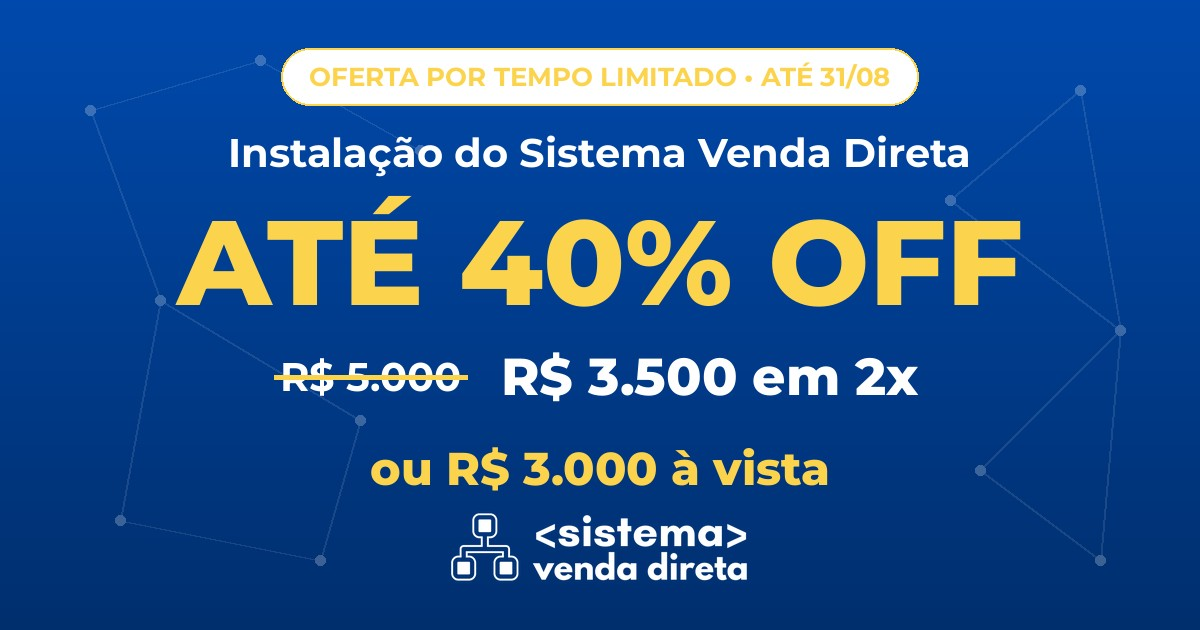
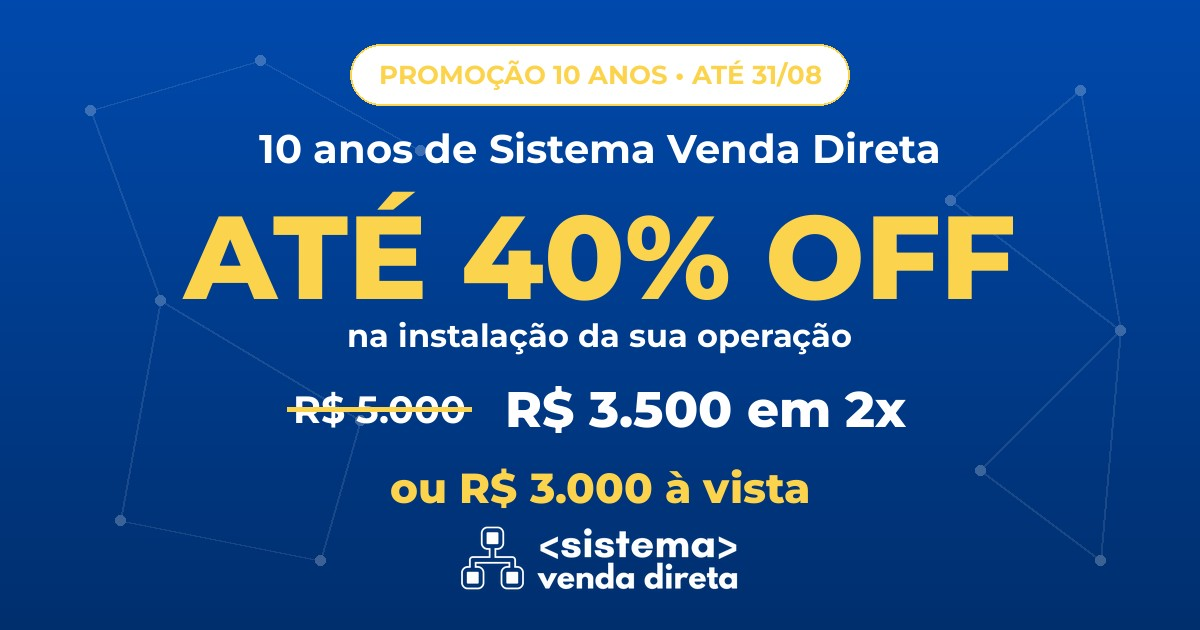
feat(svd): promocao rebatizada — Promocao 10 Anos (empresa aberta em 02/12/2015)
- badge "Celebrando 10 anos" (sem chamar agosto de mes de aniversario), barra
  sticky, headline do modal, CTA final e rodape juridico com o novo nome
- vagas 8 -> 10 (coesao com o tema)
- card de stats: "10 anos de SVD no ar, time que desenvolve sistemas desde 2002"
- historia oficial consistente: home deixa de dizer "desde 2002" como empresa;
  rodapes trocam "25 anos de experiencia" por "Desenvolvendo sistemas desde 2002"
  (frase que nunca envelhece)
- banner OG regenerado com selo "PROMOCAO 10 ANOS" (?v=3 pra furar cache)
- mensagens de WhatsApp e doc da campanha (nome, RSA e destaque) atualizados

Claude-Session: https://claude.ai/code/session_01LgtpkkrbT1UQwwthM2fiJt

Changed region(s): [[0.1233, 0.3016, 0.8633, 0.9349], [0.2158, 0.0603, 0.7708, 0.181], [0.185, 0.2111, 0.8325, 0.2714]]

diff --git a/sistemavendadireta/oferta/index.php b/sistemavendadireta/oferta/index.php
@@ -21,9 +21,9 @@ $promoInstallFrom = 5000;          // valor cheio da instalacao (R$)
 $promoInstallTo = 3500;            // valor promocional em 2x (R$)
 $promoInstallCash = 3000;          // valor promocional a vista (R$)
 $promoDeadline = '2026-08-31';     // ultimo dia da promocao (America/Sao_Paulo)
-$promoSlots = 8;                   // vagas de implantacao no periodo
+$promoSlots = 10;                  // vagas de implantacao no periodo (tema: 10 anos)
 $whatsappPhone = '5511994566726';
-$whatsappMessage = 'Ola! Vim pela campanha de instalacao com desconto do Sistema Venda Direta. Quero garantir minha vaga.';
+$whatsappMessage = 'Ola! Vim pela Promocao 10 Anos do Sistema Venda Direta. Quero garantir minha vaga.';
 
 $monthlyTiers = [
     ['revenue' => 'até R$ 50 mil', 'price' => 'R$ 500'],
@@ -51,7 +51,7 @@ $whatsappHref = 'https://wa.me/' . $whatsappPhone . '?text=' . rawurlencode($wha
 
 $seoBase = 'https://www.sistemavendadireta.com.br';
 $seoUrl = $seoBase . '/oferta/';
-$seoTitle = 'Instalação em oferta — até 40% OFF | Sistema Venda Direta';
+$seoTitle = 'Promoção 10 Anos: até 40% OFF na instalação | Sistema Venda Direta';
 $seoDescription = 'Plataforma completa de MMN: escritório, loja, rede e financeiro. '
     . 'Instalação R$ 3.500 em 2x ou R$ 3.000 à vista, com implantação assistida por IA.';
 ?>
@@ -72,16 +72,16 @@ $seoDescription = 'Plataforma completa de MMN: escritório, loja, rede e finance
 
   <meta property="og:locale" content="pt_BR" />
   <meta property="og:type" content="website" />
-  <meta property="og:title" content="Instalação em oferta — Sistema Venda Direta" />
+  <meta property="og:title" content="Promoção 10 Anos — Sistema Venda Direta" />
   <meta property="og:description" content="<?= htmlspecialchars($seoDescription, ENT_QUOTES, 'UTF-8') ?>" />
   <meta property="og:url" content="<?= htmlspecialchars($seoUrl, ENT_QUOTES, 'UTF-8') ?>" />
   <meta property="og:site_name" content="Sistema Venda Direta" />
-  <meta property="og:image" content="<?= htmlspecialchars($seoBase . '/imagens/og-oferta.jpg?v=2', ENT_QUOTES, 'UTF-8') ?>" />
+  <meta property="og:image" content="<?= htmlspecialchars($seoBase . '/imagens/og-oferta.jpg?v=3', ENT_QUOTES, 'UTF-8') ?>" />
   <meta property="og:image:width" content="1200" />
   <meta property="og:image:height" content="630" />
   <meta property="og:image:alt" content="Instalação do Sistema Venda Direta com até 40% OFF — R$ 3.500 em 2x ou R$ 3.000 à vista até 31/08" />
   <meta name="twitter:card" content="summary_large_image" />
-  <meta name="twitter:image" content="<?= htmlspecialchars($seoBase . '/imagens/og-oferta.jpg?v=2', ENT_QUOTES, 'UTF-8') ?>" />
+  <meta name="twitter:image" content="<?= htmlspecialchars($seoBase . '/imagens/og-oferta.jpg?v=3', ENT_QUOTES, 'UTF-8') ?>" />
 
   <link rel="preconnect" href="https://fonts.googleapis.com" />
   <link rel="preconnect" href="https://fonts.gstatic.com" crossorigin />
@@ -98,7 +98,7 @@ $seoDescription = 'Plataforma completa de MMN: escritório, loja, rede e finance
     <div class="sticky top-0 z-50 border-b border-amber-300/40 bg-amber-400 text-brand">
       <div class="mx-auto flex max-w-[1140px] flex-nowrap items-center justify-between gap-3 px-4 py-2 sm:px-6">
         <p class="min-w-0 text-xs font-bold uppercase leading-tight tracking-wide sm:text-sm">
-          Até <?= (int) $discountCashPct ?>% OFF na instalação<span class="hidden md:inline"> · encerra <?= htmlspecialchars($deadlineLabel, ENT_QUOTES, 'UTF-8') ?></span>
+          Promoção 10 Anos: até <?= (int) $discountCashPct ?>% OFF<span class="hidden md:inline"> na instalação · encerra <?= htmlspecialchars($deadlineLabel, ENT_QUOTES, 'UTF-8') ?></span>
           <span class="ml-1 whitespace-nowrap rounded-full bg-brand px-2 py-0.5 text-[10px] font-bold text-white sm:text-xs"><?= (int) $daysLeft ?> dia<?= $daysLeft === 1 ? '' : 's' ?></span>
         </p>
         <a href="#garantir" class="shrink-0 whitespace-nowrap rounded-full bg-brand px-3 py-1.5 text-[11px] font-bold uppercase tracking-wide text-white hover:bg-brand-dark sm:px-4 sm:text-xs">
@@ -125,7 +125,7 @@ $seoDescription = 'Plataforma completa de MMN: escritório, loja, rede e finance
     <section class="py-10 lg:py-14">
       <div>
         <p class="inline-flex rounded-full border border-amber-300/50 bg-amber-400/15 px-3 py-1 text-xs font-bold uppercase tracking-[0.18em] text-amber-200">
-          Campanha por tempo limitado
+          Celebrando 10 anos
         </p>
         <h1 class="mt-4 font-[var(--font-heading)] text-3xl font-bold leading-[1.1] sm:text-4xl lg:text-[46px]">
           Sua operação de venda direta no ar com <span class="text-amber-300">até <?= (int) $discountCashPct ?>% de desconto</span> na instalação
@@ -188,8 +188,8 @@ $seoDescription = 'Plataforma completa de MMN: escritório, loja, rede e finance
           <p class="mt-1 text-sm text-white/85">foi o prazo da última implantação internacional: loja, escritório e admin no ar em julho de 2026.</p>
         </div>
         <div class="rounded-2xl border border-white/20 bg-white/5 p-5">
-          <p class="font-[var(--font-heading)] text-3xl font-bold text-amber-300">25 anos</p>
-          <p class="mt-1 text-sm text-white/85">de experiência do time em sistemas de vendas, financeiro e fiscal.</p>
+          <p class="font-[var(--font-heading)] text-3xl font-bold text-amber-300">10 anos</p>
+          <p class="mt-1 text-sm text-white/85">de Sistema Venda Direta no ar — com um time que desenvolve sistemas de vendas, financeiro e fiscal desde 2002.</p>
         </div>
         <div class="rounded-2xl border border-white/20 bg-white/5 p-5">
           <p class="font-[var(--font-heading)] text-3xl font-bold text-amber-300">5 países</p>
@@ -511,7 +511,7 @@ $seoDescription = 'Plataforma completa de MMN: escritório, loja, rede e finance
               method="post"
               class="space-y-4"
               data-whatsapp-phone="<?= htmlspecialchars($whatsappPhone, ENT_QUOTES, 'UTF-8') ?>"
-              data-whatsapp-message-template="Ola, vim pela campanha de instalacao com desconto. Meu nome e {nome} e meu WhatsApp e {whatsapp}."
+              data-whatsapp-message-template="Ola, vim pela Promocao 10 Anos. Meu nome e {nome} e meu WhatsApp e {whatsapp}."
             >
               <input type="hidden" name="redirect" value="/oferta/" />
               <input type="hidden" name="origem" value="lp-oferta-instalacao" />
@@ -577,7 +577,7 @@ $seoDescription = 'Plataforma completa de MMN: escritório, loja, rede e finance
 
     <section class="py-12 text-center">
       <h2 class="font-[var(--font-heading)] text-2xl font-bold sm:text-3xl">
-        <?= htmlspecialchars($moneyFrom, ENT_QUOTES, 'UTF-8') ?> viram <?= htmlspecialchars($moneyCash, ENT_QUOTES, 'UTF-8') ?> à vista<?= $promoActive ? ' até ' . htmlspecialchars($deadlineLabel, ENT_QUOTES, 'UTF-8') : '' ?>
+        Promoção 10 Anos: <?= htmlspecialchars($moneyFrom, ENT_QUOTES, 'UTF-8') ?> viram <?= htmlspecialchars($moneyCash, ENT_QUOTES, 'UTF-8') ?> à vista<?= $promoActive ? ' até ' . htmlspecialchars($deadlineLabel, ENT_QUOTES, 'UTF-8') : '' ?>
       </h2>
       <p class="mx-auto mt-3 max-w-2xl text-base leading-relaxed text-white/90">
         Depois disso, a instalação volta ao valor cheio. Se a sua operação vai começar este ano, começar agora sai bem mais barato.
@@ -598,7 +598,7 @@ $seoDescription = 'Plataforma completa de MMN: escritório, loja, rede e finance
       </div>
       <p class="mt-6 text-xs text-white/60">
         © Sistema Venda Direta — Todos os direitos reservados.
-        Condição promocional de instalação (<?= htmlspecialchars($moneyTo, ENT_QUOTES, 'UTF-8') ?> em duas parcelas ou <?= htmlspecialchars($moneyCash, ENT_QUOTES, 'UTF-8') ?> à vista) válida para contratos fechados até <?= htmlspecialchars($deadlineLabel, ENT_QUOTES, 'UTF-8') ?>,
+        Promoção 10 Anos — condição promocional de instalação (<?= htmlspecialchars($moneyTo, ENT_QUOTES, 'UTF-8') ?> em duas parcelas ou <?= htmlspecialchars($moneyCash, ENT_QUOTES, 'UTF-8') ?> à vista) válida para contratos fechados até <?= htmlspecialchars($deadlineLabel, ENT_QUOTES, 'UTF-8') ?>,
         limitada a <?= (int) $promoSlots ?> implantações no período. Não cumulativa com outras condições comerciais.
       </p>
     </div>

diff --git a/sistemavendadireta/oferta/suplementos/index.php b/sistemavendadireta/oferta/suplementos/index.php
@@ -21,9 +21,9 @@ $promoInstallFrom = 5000;          // valor cheio da instalacao (R$)
 $promoInstallTo = 3500;            // valor promocional em 2x (R$)
 $promoInstallCash = 3000;          // valor promocional a vista (R$)
 $promoDeadline = '2026-08-31';     // ultimo dia da promocao (America/Sao_Paulo)
-$promoSlots = 8;                   // vagas de implantacao no periodo
+$promoSlots = 10;                  // vagas de implantacao no periodo (tema: 10 anos)
 $whatsappPhone = '5511994566726';
-$whatsappMessage = 'Ola! Tenho uma operacao de suplementos e vim pela campanha de instalacao com desconto. Quero ver o sistema.';
+$whatsappMessage = 'Ola! Tenho uma operacao de suplementos e vim pela Promocao 10 Anos. Quero ver o sistema.';
 
 $monthlyTiers = [
     ['revenue' => 'até R$ 50 mil', 'price' => 'R$ 500'],
@@ -75,12 +75,12 @@ $seoDescription = 'Sistema para distribuidora de suplementos com consultores: es
   <meta property="og:description" content="<?= htmlspecialchars($seoDescription, ENT_QUOTES, 'UTF-8') ?>" />
   <meta property="og:url" content="<?= htmlspecialchars($seoUrl, ENT_QUOTES, 'UTF-8') ?>" />
   <meta property="og:site_name" content="Sistema Venda Direta" />
-  <meta property="og:image" content="<?= htmlspecialchars($seoBase . '/imagens/og-oferta.jpg?v=2', ENT_QUOTES, 'UTF-8') ?>" />
+  <meta property="og:image" content="<?= htmlspecialchars($seoBase . '/imagens/og-oferta.jpg?v=3', ENT_QUOTES, 'UTF-8') ?>" />
   <meta property="og:image:width" content="1200" />
   <meta property="og:image:height" content="630" />
   <meta property="og:image:alt" content="Instalação do Sistema Venda Direta com até 40% OFF — R$ 3.500 em 2x ou R$ 3.000 à vista até 31/08" />
   <meta name="twitter:card" content="summary_large_image" />
-  <meta name="twitter:image" content="<?= htmlspecialchars($seoBase . '/imagens/og-oferta.jpg?v=2', ENT_QUOTES, 'UTF-8') ?>" />
+  <meta name="twitter:image" content="<?= htmlspecialchars($seoBase . '/imagens/og-oferta.jpg?v=3', ENT_QUOTES, 'UTF-8') ?>" />
 
   <link rel="preconnect" href="https://fonts.googleapis.com" />
   <link rel="preconnect" href="https://fonts.gstatic.com" crossorigin />
@@ -97,7 +97,7 @@ $seoDescription = 'Sistema para distribuidora de suplementos com consultores: es
     <div class="sticky top-0 z-50 border-b border-amber-300/40 bg-amber-400 text-brand">
       <div class="mx-auto flex max-w-[1140px] flex-nowrap items-center justify-between gap-3 px-4 py-2 sm:px-6">
         <p class="min-w-0 text-xs font-bold uppercase leading-tight tracking-wide sm:text-sm">
-          Até <?= (int) $discountCashPct ?>% OFF na instalação<span class="hidden md:inline"> · encerra <?= htmlspecialchars($deadlineLabel, ENT_QUOTES, 'UTF-8') ?></span>
+          Promoção 10 Anos: até <?= (int) $discountCashPct ?>% OFF<span class="hidden md:inline"> na instalação · encerra <?= htmlspecialchars($deadlineLabel, ENT_QUOTES, 'UTF-8') ?></span>
           <span class="ml-1 whitespace-nowrap rounded-full bg-brand px-2 py-0.5 text-[10px] font-bold text-white sm:text-xs"><?= (int) $daysLeft ?> dia<?= $daysLeft === 1 ? '' : 's' ?></span>
         </p>
         <a href="#garantir" class="shrink-0 whitespace-nowrap rounded-full bg-brand px-3 py-1.5 text-[11px] font-bold uppercase tracking-wide text-white hover:bg-brand-dark sm:px-4 sm:text-xs">
@@ -124,7 +124,7 @@ $seoDescription = 'Sistema para distribuidora de suplementos com consultores: es
     <section class="py-10 lg:py-14">
       <div>
         <p class="inline-flex rounded-full border border-amber-300/50 bg-amber-400/15 px-3 py-1 text-xs font-bold uppercase tracking-[0.18em] text-amber-200">
-          Campanha por tempo limitado
+          Celebrando 10 anos
         </p>
         <h1 class="mt-4 font-[var(--font-heading)] text-3xl font-bold leading-[1.1] sm:text-4xl lg:text-[46px]">
           Sistema para <span class="text-amber-300">distribuidora de suplementos</span> que vende por consultores
@@ -186,8 +186,8 @@ $seoDescription = 'Sistema para distribuidora de suplementos com consultores: es
           <p class="mt-1 text-sm text-white/85">foi o prazo da última implantação internacional: loja, escritório e admin no ar em julho de 2026.</p>
         </div>
         <div class="rounded-2xl border border-white/20 bg-white/5 p-5">
-          <p class="font-[var(--font-heading)] text-3xl font-bold text-amber-300">25 anos</p>
-          <p class="mt-1 text-sm text-white/85">de experiência do time em sistemas de vendas, financeiro e fiscal.</p>
+          <p class="font-[var(--font-heading)] text-3xl font-bold text-amber-300">10 anos</p>
+          <p class="mt-1 text-sm text-white/85">de Sistema Venda Direta no ar — com um time que desenvolve sistemas de vendas, financeiro e fiscal desde 2002.</p>
         </div>
         <div class="rounded-2xl border border-white/20 bg-white/5 p-5">
           <p class="font-[var(--font-heading)] text-3xl font-bold text-amber-300">5 países</p>
@@ -509,7 +509,7 @@ $seoDescription = 'Sistema para distribuidora de suplementos com consultores: es
               method="post"
               class="space-y-4"
               data-whatsapp-phone="<?= htmlspecialchars($whatsappPhone, ENT_QUOTES, 'UTF-8') ?>"
-              data-whatsapp-message-template="Ola, vim pela campanha de instalacao com desconto. Meu nome e {nome} e meu WhatsApp e {whatsapp}."
+              data-whatsapp-message-template="Ola, vim pela Promocao 10 Anos. Meu nome e {nome} e meu WhatsApp e {whatsapp}."
             >
               <input type="hidden" name="redirect" value="/oferta/suplementos/" />
               <input type="hidden" name="origem" value="lp-oferta-suplementos" />
@@ -575,7 +575,7 @@ $seoDescription = 'Sistema para distribuidora de suplementos com consultores: es
 
     <section class="py-12 text-center">
       <h2 class="font-[var(--font-heading)] text-2xl font-bold sm:text-3xl">
-        <?= htmlspecialchars($moneyFrom, ENT_QUOTES, 'UTF-8') ?> viram <?= htmlspecialchars($moneyCash, ENT_QUOTES, 'UTF-8') ?> à vista<?= $promoActive ? ' até ' . htmlspecialchars($deadlineLabel, ENT_QUOTES, 'UTF-8') : '' ?>
+        Promoção 10 Anos: <?= htmlspecialchars($moneyFrom, ENT_QUOTES, 'UTF-8') ?> viram <?= htmlspecialchars($moneyCash, ENT_QUOTES, 'UTF-8') ?> à vista<?= $promoActive ? ' até ' . htmlspecialchars($deadlineLabel, ENT_QUOTES, 'UTF-8') : '' ?>
       </h2>
       <p class="mx-auto mt-3 max-w-2xl text-base leading-relaxed text-white/90">
         Depois disso, a instalação volta ao valor cheio. Se a sua operação vai começar este ano, começar agora sai bem mais barato.
@@ -596,7 +596,7 @@ $seoDescription = 'Sistema para distribuidora de suplementos com consultores: es
       </div>
       <p class="mt-6 text-xs text-white/60">
         © Sistema Venda Direta — Todos os direitos reservados.
-        Condição promocional de instalação (<?= htmlspecialchars($moneyTo, ENT_QUOTES, 'UTF-8') ?> em duas parcelas ou <?= htmlspecialchars($moneyCash, ENT_QUOTES, 'UTF-8') ?> à vista) válida para contratos fechados até <?= htmlspecialchars($deadlineLabel, ENT_QUOTES, 'UTF-8') ?>,
+        Promoção 10 Anos — condição promocional de instalação (<?= htmlspecialchars($moneyTo, ENT_QUOTES, 'UTF-8') ?> em duas parcelas ou <?= htmlspecialchars($moneyCash, ENT_QUOTES, 'UTF-8') ?> à vista) válida para contratos fechados até <?= htmlspecialchars($deadlineLabel, ENT_QUOTES, 'UTF-8') ?>,
         limitada a <?= (int) $promoSlots ?> implantações no período. Não cumulativa com outras condições comerciais.
       </p>
     </div>

diff --git a/sistemavendadireta/oferta/cosmeticos/index.php b/sistemavendadireta/oferta/cosmeticos/index.php
@@ -21,9 +21,9 @@ $promoInstallFrom = 5000;          // valor cheio da instalacao (R$)
 $promoInstallTo = 3500;            // valor promocional em 2x (R$)
 $promoInstallCash = 3000;          // valor promocional a vista (R$)
 $promoDeadline = '2026-08-31';     // ultimo dia da promocao (America/Sao_Paulo)
-$promoSlots = 8;                   // vagas de implantacao no periodo
+$promoSlots = 10;                  // vagas de implantacao no periodo (tema: 10 anos)
 $whatsappPhone = '5511994566726';
-$whatsappMessage = 'Ola! Tenho uma marca de cosmeticos e vim pela campanha de instalacao com desconto. Quero ver o sistema.';
+$whatsappMessage = 'Ola! Tenho uma marca de cosmeticos e vim pela Promocao 10 Anos. Quero ver o sistema.';
 
 $monthlyTiers = [
     ['revenue' => 'até R$ 50 mil', 'price' => 'R$ 500'],
@@ -75,12 +75,12 @@ $seoDescription = 'Sistema para marca de cosméticos com consultoras: catálogo 
   <meta property="og:description" content="<?= htmlspecialchars($seoDescription, ENT_QUOTES, 'UTF-8') ?>" />
   <meta property="og:url" content="<?= htmlspecialchars($seoUrl, ENT_QUOTES, 'UTF-8') ?>" />
   <meta property="og:site_name" content="Sistema Venda Direta" />
-  <meta property="og:image" content="<?= htmlspecialchars($seoBase . '/imagens/og-oferta.jpg?v=2', ENT_QUOTES, 'UTF-8') ?>" />
+  <meta property="og:image" content="<?= htmlspecialchars($seoBase . '/imagens/og-oferta.jpg?v=3', ENT_QUOTES, 'UTF-8') ?>" />
   <meta property="og:image:width" content="1200" />
   <meta property="og:image:height" content="630" />
   <meta property="og:image:alt" content="Instalação do Sistema Venda Direta com até 40% OFF — R$ 3.500 em 2x ou R$ 3.000 à vista até 31/08" />
   <meta name="twitter:card" content="summary_large_image" />
-  <meta name="twitter:image" content="<?= htmlspecialchars($seoBase . '/imagens/og-oferta.jpg?v=2', ENT_QUOTES, 'UTF-8') ?>" />
+  <meta name="twitter:image" content="<?= htmlspecialchars($seoBase . '/imagens/og-oferta.jpg?v=3', ENT_QUOTES, 'UTF-8') ?>" />
 
   <link rel="preconnect" href="https://fonts.googleapis.com" />
   <link rel="preconnect" href="https://fonts.gstatic.com" crossorigin />
@@ -97,7 +97,7 @@ $seoDescription = 'Sistema para marca de cosméticos com consultoras: catálogo 
     <div class="sticky top-0 z-50 border-b border-amber-300/40 bg-amber-400 text-brand">
       <div class="mx-auto flex max-w-[1140px] flex-nowrap items-center justify-between gap-3 px-4 py-2 sm:px-6">
         <p class="min-w-0 text-xs font-bold uppercase leading-tight tracking-wide sm:text-sm">
-          Até <?= (int) $discountCashPct ?>% OFF na instalação<span class="hidden md:inline"> · encerra <?= htmlspecialchars($deadlineLabel, ENT_QUOTES, 'UTF-8') ?></span>
+          Promoção 10 Anos: até <?= (int) $discountCashPct ?>% OFF<span class="hidden md:inline"> na instalação · encerra <?= htmlspecialchars($deadlineLabel, ENT_QUOTES, 'UTF-8') ?></span>
           <span class="ml-1 whitespace-nowrap rounded-full bg-brand px-2 py-0.5 text-[10px] font-bold text-white sm:text-xs"><?= (int) $daysLeft ?> dia<?= $daysLeft === 1 ? '' : 's' ?></span>
         </p>
         <a href="#garantir" class="shrink-0 whitespace-nowrap rounded-full bg-brand px-3 py-1.5 text-[11px] font-bold uppercase tracking-wide text-white hover:bg-brand-dark sm:px-4 sm:text-xs">
@@ -124,7 +124,7 @@ $seoDescription = 'Sistema para marca de cosméticos com consultoras: catálogo 
     <section class="py-10 lg:py-14">
       <div>
         <p class="inline-flex rounded-full border border-amber-300/50 bg-amber-400/15 px-3 py-1 text-xs font-bold uppercase tracking-[0.18em] text-amber-200">
-          Campanha por tempo limitado
+          Celebrando 10 anos
         </p>
         <h1 class="mt-4 font-[var(--font-heading)] text-3xl font-bold leading-[1.1] sm:text-4xl lg:text-[46px]">
           Sistema para <span class="text-amber-300">revenda de cosméticos</span> com rede de consultoras
@@ -186,8 +186,8 @@ $seoDescription = 'Sistema para marca de cosméticos com consultoras: catálogo 
           <p class="mt-1 text-sm text-white/85">foi o prazo da última implantação internacional: loja, escritório e admin no ar em julho de 2026.</p>
         </div>
         <div class="rounded-2xl border border-white/20 bg-white/5 p-5">
-          <p class="font-[var(--font-heading)] text-3xl font-bold text-amber-300">25 anos</p>
-          <p class="mt-1 text-sm text-white/85">de experiência do time em sistemas de vendas, financeiro e fiscal.</p>
+          <p class="font-[var(--font-heading)] text-3xl font-bold text-amber-300">10 anos</p>
+          <p class="mt-1 text-sm text-white/85">de Sistema Venda Direta no ar — com um time que desenvolve sistemas de vendas, financeiro e fiscal desde 2002.</p>
         </div>
         <div class="rounded-2xl border border-white/20 bg-white/5 p-5">
           <p class="font-[var(--font-heading)] text-3xl font-bold text-amber-300">5 países</p>
@@ -509,7 +509,7 @@ $seoDescription = 'Sistema para marca de cosméticos com consultoras: catálogo 
               method="post"
               class="space-y-4"
               data-whatsapp-phone="<?= htmlspecialchars($whatsappPhone, ENT_QUOTES, 'UTF-8') ?>"
-              data-whatsapp-message-template="Ola, vim pela campanha de instalacao com desconto. Meu nome e {nome} e meu WhatsApp e {whatsapp}."
+              data-whatsapp-message-template="Ola, vim pela Promocao 10 Anos. Meu nome e {nome} e meu WhatsApp e {whatsapp}."
             >
               <input type="hidden" name="redirect" value="/oferta/cosmeticos/" />
               <input type="hidden" name="origem" value="lp-oferta-cosmeticos" />
@@ -575,7 +575,7 @@ $seoDescription = 'Sistema para marca de cosméticos com consultoras: catálogo 
 
     <section class="py-12 text-center">
       <h2 class="font-[var(--font-heading)] text-2xl font-bold sm:text-3xl">
-        <?= htmlspecialchars($moneyFrom, ENT_QUOTES, 'UTF-8') ?> viram <?= htmlspecialchars($moneyCash, ENT_QUOTES, 'UTF-8') ?> à vista<?= $promoActive ? ' até ' . htmlspecialchars($deadlineLabel, ENT_QUOTES, 'UTF-8') : '' ?>
+        Promoção 10 Anos: <?= htmlspecialchars($moneyFrom, ENT_QUOTES, 'UTF-8') ?> viram <?= htmlspecialchars($moneyCash, ENT_QUOTES, 'UTF-8') ?> à vista<?= $promoActive ? ' até ' . htmlspecialchars($deadlineLabel, ENT_QUOTES, 'UTF-8') : '' ?>
       </h2>
       <p class="mx-auto mt-3 max-w-2xl text-base leading-relaxed text-white/90">
         Depois disso, a instalação volta ao valor cheio. Se a sua operação vai começar este ano, começar agora sai bem mais barato.
@@ -596,7 +596,7 @@ $seoDescription = 'Sistema para marca de cosméticos com consultoras: catálogo 
       </div>
       <p class="mt-6 text-xs text-white/60">
         © Sistema Venda Direta — Todos os direitos reservados.
-        Condição promocional de instalação (<?= htmlspecialchars($moneyTo, ENT_QUOTES, 'UTF-8') ?> em duas parcelas ou <?= htmlspecialchars($moneyCash, ENT_QUOTES, 'UTF-8') ?> à vista) válida para contratos fechados até <?= htmlspecialchars($deadlineLabel, ENT_QUOTES, 'UTF-8') ?>,
+        Promoção 10 Anos — condição promocional de instalação (<?= htmlspecialchars($moneyTo, ENT_QUOTES, 'UTF-8') ?> em duas parcelas ou <?= htmlspecialchars($moneyCash, ENT_QUOTES, 'UTF-8') ?> à vista) válida para contratos fechados até <?= htmlspecialchars($deadlineLabel, ENT_QUOTES, 'UTF-8') ?>,
         limitada a <?= (int) $promoSlots ?> implantações no período. Não cumulativa com outras condições comerciais.
       </p>
     </div>

diff --git a/sistemavendadireta/index.php b/sistemavendadireta/index.php
@@ -23,7 +23,7 @@ $promoModalDeadline = new DateTimeImmutable($promoModal['deadline'] . ' 23:59:59
 $promoModalActive = new DateTimeImmutable('now', new DateTimeZone('America/Sao_Paulo')) <= $promoModalDeadline;
 $promoModalDeadlineLabel = $promoModalDeadline->format('d/m/Y');
 $seoTitle = 'Sistema para Vendas Diretas e Marketing Multinível — MMN';
-$seoDescription = 'Plataforma MMN com planos binário e unilevel, gateways de pagamento e loja virtual integrada. Sistema Venda Direta desde 2002 — ecossistema CodeRush no Brasil.';
+$seoDescription = 'Plataforma MMN com planos binário e unilevel, gateways de pagamento e loja virtual integrada. 10 anos de Sistema Venda Direta — ecossistema CodeRush no Brasil.';
 $seoOgImage = $seoBase . '/imagens/og-sistema-venda-direta.jpg';
 $seoLogo = $seoBase . '/wp-content/uploads/2023/04/Logo-Azul-004AAD-1.png';
 
@@ -893,7 +893,7 @@ Landing page publica reescrita em Tailwind, sem dependencias de WordPress, com f
         </div>
 
         <div class="space-y-4">
-          <h4 class="font-[var(--font-heading)] text-lg font-semibold">25 anos de experiência desenvolvendo sistemas</h4>
+          <h4 class="font-[var(--font-heading)] text-lg font-semibold">Desenvolvendo sistemas desde 2002</h4>
           <a href="/#contato" class="inline-flex rounded-full border border-white/70 px-5 py-2.5 text-sm font-semibold uppercase tracking-wide hover:bg-white/10">
             Solicite um Orçamento
           </a>
@@ -929,10 +929,10 @@ Landing page publica reescrita em Tailwind, sem dependencias de WordPress, com f
         <button id="promo-modal-fechar" type="button" aria-label="Fechar" class="absolute right-4 top-4 inline-flex h-9 w-9 items-center justify-center rounded-full border border-white/30 text-lg leading-none text-white/80 hover:bg-white/10">&times;</button>
 
         <p class="inline-flex rounded-full border border-amber-300/50 bg-amber-400/15 px-3 py-1 text-[11px] font-bold uppercase tracking-[0.18em] text-amber-200">
-          Oferta por tempo limitado
+          Celebrando 10 anos
         </p>
         <h2 id="promo-modal-titulo" class="mt-4 font-[var(--font-heading)] text-2xl font-bold leading-tight sm:text-[28px]">
-          Instalação com <span class="text-amber-300">até 40% OFF</span>
+          Promoção 10 Anos: <span class="text-amber-300">até 40% OFF</span> na instalação
         </h2>
         <div class="mt-4 flex flex-wrap items-end justify-center gap-2">
           <span class="text-lg font-semibold text-white/50 line-through"><?= htmlspecialchars($promoModal['from'], ENT_QUOTES, 'UTF-8') ?></span>

diff --git a/sistemavendadireta/inteligencia-artificial/index.php b/sistemavendadireta/inteligencia-artificial/index.php
@@ -447,7 +447,7 @@ Landing page v1 com a identidade visual SVD e novo posicionamento de negocio ori
         </div>
 
         <div class="space-y-4">
-          <h4 class="font-[var(--font-heading)] text-lg font-semibold">25 anos de experiência desenvolvendo sistemas</h4>
+          <h4 class="font-[var(--font-heading)] text-lg font-semibold">Desenvolvendo sistemas desde 2002</h4>
           <a href="../#contato" class="inline-flex rounded-full border border-white/70 px-5 py-2.5 text-sm font-semibold uppercase tracking-wide hover:bg-white/10">
             Solicite um Orçamento
           </a>

diff --git a/sistemavendadireta/cases/index.php b/sistemavendadireta/cases/index.php
@@ -258,7 +258,7 @@ $seoLdGraph = [
         </div>
 
         <div class="space-y-4">
-          <h4 class="font-[var(--font-heading)] text-lg font-semibold">25 anos de experiência desenvolvendo sistemas</h4>
+          <h4 class="font-[var(--font-heading)] text-lg font-semibold">Desenvolvendo sistemas desde 2002</h4>
           <a href="../#contato" class="inline-flex rounded-full border border-white/70 px-5 py-2.5 text-sm font-semibold uppercase tracking-wide hover:bg-white/10">
             Solicite um Orçamento
           </a>

diff --git a/docs/campanha-google-ads-oferta.md b/docs/campanha-google-ads-oferta.md
@@ -8,7 +8,7 @@ Landing: https://www.sistemavendadireta.com.br/oferta/ (instalacao R$3.500 em 2x
 */
 -->
 
-# Campanha Google Ads — Oferta Instalação Promocional SVD
+# Campanha Google Ads — Promoção 10 Anos SVD
 
 ## Estrutura
 
@@ -19,7 +19,7 @@ Landing: https://www.sistemavendadireta.com.br/oferta/ (instalacao R$3.500 em 2x
 - **Conversão**: importar do GA4 o key event `generate_lead` (Ferramentas → Conversões →
   Importar → Propriedades do Google Analytics 4). Secundária: `whatsapp_click`
 - **Extensões**: sitelinks (Cases → `/cases/`, Blog → `/blog/`, IA para MMN →
-  `/inteligencia-artificial/`), frase de destaque ("25 anos de experiência",
+  `/inteligencia-artificial/`), frase de destaque ("10 anos de mercado",
   "Clientes em 5 países", "Mensalidade desde R$ 500"), chamada 11 99456-6726
 
 ## URL final (todas os grupos)
@@ -98,7 +98,7 @@ dela, não comprar sistema.)
 | 10 | Comissões Automáticas | 21 |
 | 11 | À Vista por R$ 3.000 | 20 |
 | 12 | Migramos seu Sistema Atual | 26 |
-| 13 | 25 Anos de Experiência | 22 |
+| 13 | Promoção 10 Anos SVD | 20 |
 | 14 | Sua Marca e seu Domínio | 23 |
 | 15 | Orçamento pelo WhatsApp | 23 |
 
@@ -109,7 +109,7 @@ Fixar título 3 na posição 1 durante a promoção (é a oferta).
 | # | Descrição | chars |
 |---|---|---|
 | 1 | Plataforma completa: escritório virtual, rede binária e unilevel, loja e financeiro. | 84 |
-| 2 | Instalação R$ 3.500 em 2x ou R$ 3.000 à vista até 31/08. Mensalidade proporcional. | 85 |
+| 2 | Promoção 10 Anos: R$ 3.500 em 2x ou R$ 3.000 à vista até 31/08. Mensalidade sob medida. | 87 |
 | 3 | Clientes em 5 países: Brasil, Paraguai, Bolívia, EUA e Portugal. Multimoeda real. | 81 |
 | 4 | Parametrizamos seu plano de negócio: binário, unilevel ou comissão por cargo. | 77 |
 
